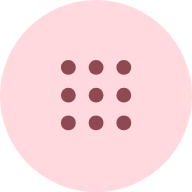
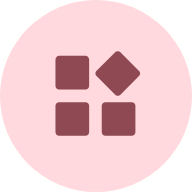
Portal: cuadrícula de íconos (opción B) sin bajar y nuevo ícono del portal (bloques de apps)
Claude-Session: https://claude.ai/code/session_01RxuB9udRxRvPuuMVijjDDS

Changed region(s): [[0.2812, 0.25, 0.75, 0.7188]]

diff --git a/index.html b/index.html
@@ -22,37 +22,29 @@ html,body{margin:0;background:var(--fondo);color:var(--txt);font:16px/1.45 "Goog
 body{min-height:100dvh}
 :focus-visible{outline:3px solid var(--vino);outline-offset:2px}
 .todo{max-width:1040px;margin:0 auto;padding:calc(20px + env(safe-area-inset-top)) 16px calc(32px + env(safe-area-inset-bottom))}
-.hrow{display:flex;justify-content:flex-end}
-.hrow img{width:56px;height:56px;display:block}
-h1{margin:20px 8px 6px;font-size:34px;line-height:42px;font-weight:700;letter-spacing:-.3px}
-.sub{margin:0 8px;font-size:15px;color:var(--sec)}
-.estado{margin:12px 8px 0;display:flex;align-items:center;justify-content:space-between;gap:8px}
-.estado .fecha{font-size:14px;color:var(--sec)}
-.hora{display:inline-flex;align-items:center;gap:6px;height:36px;padding:0 12px;border-radius:18px;background:var(--tarjeta);font-size:14px;font-weight:600;font-variant-numeric:tabular-nums;white-space:nowrap}
-.hora svg{width:18px;height:18px;color:var(--vino)}
-h2{margin:26px 8px 12px;font-size:15px;font-weight:600;color:var(--vino)}
-.grupo{display:flex;flex-direction:column;gap:3px}
-.app{display:flex;align-items:center;gap:16px;padding:14px 12px 14px 16px;background:var(--tarjeta);border-radius:6px;text-decoration:none;color:inherit;
+.cabeza{display:flex;align-items:center;justify-content:space-between;gap:12px}
+.cabeza img{width:52px;height:52px;display:block;flex:none}
+h1{margin:4px 8px 2px;font-size:28px;line-height:36px;font-weight:700;letter-spacing:-.3px}
+.sub{margin:0 8px;font-size:14px;color:var(--sec);font-variant-numeric:tabular-nums}
+/* Cuadrícula de íconos, como la pantalla de inicio del celular: todo cabe sin bajar */
+.grilla{margin-top:26px;display:grid;grid-template-columns:repeat(3,minmax(0,1fr));gap:22px 6px;background:var(--tarjeta);border-radius:28px;padding:24px 8px}
+.app{display:flex;flex-direction:column;align-items:center;gap:8px;text-align:center;text-decoration:none;color:inherit;border-radius:20px;padding:4px 2px;
   transition:transform 250ms var(--m3),background 200ms;animation:entra 450ms var(--m3in) both}
-.app:first-child{border-top-left-radius:28px;border-top-right-radius:28px}
-.app:last-child{border-bottom-left-radius:28px;border-bottom-right-radius:28px}
-.app:active{transform:scale(.98)}
-.app img{width:52px;height:52px;border-radius:50%;flex:none}
-.app .t{flex:1;min-width:0}
-.app b{display:block;font-size:17px;font-weight:500}
-.app span{display:block;font-size:13.5px;color:var(--sec);margin-top:2px}
-.app svg{width:24px;height:24px;color:var(--sec);flex:none}
-@keyframes entra{from{opacity:0;transform:translateY(10px)}to{opacity:1;transform:none}}
+.app:active{transform:scale(.94)}
+.app img{width:64px;height:64px;border-radius:50%}
+.app b{font-size:13.5px;line-height:1.25;font-weight:500}
+@keyframes entra{from{opacity:0;transform:translateY(10px) scale(.96)}to{opacity:1;transform:none}}
 .instalar{display:flex;align-items:center;justify-content:center;gap:8px;width:100%;max-width:360px;margin:28px auto 0;height:56px;border-radius:28px;border:0;
   background:var(--cont);color:var(--cont-txt);font:inherit;font-size:15.5px;font-weight:600;cursor:pointer;transition:transform 250ms var(--m3)}
 .instalar:active{transform:scale(.97)}
 .instalar[hidden]{display:none}
 .instalar svg{width:20px;height:20px}
 .nota{text-align:center;color:var(--sec);font-size:13px;margin-top:14px}
-@media (min-width:900px){
-  .todo{padding:32px 56px 40px}
-  .hrow{justify-content:flex-start}
-  .grupos{display:grid;grid-template-columns:repeat(2,minmax(0,1fr));gap:0 28px}
+@media (min-width:700px){
+  .todo{max-width:880px;padding:40px 32px}
+  .grilla{grid-template-columns:repeat(4,minmax(0,1fr));gap:28px 8px;padding:32px 16px}
+  .app img{width:76px;height:76px}
+  .app b{font-size:15px}
 }
 @media (hover:hover){.app:hover{background:var(--tarjeta2)}.instalar:hover{background:#FFC9CF}}
 @media (prefers-reduced-motion:reduce){*{transition:none!important;animation:none!important}}
@@ -60,11 +52,11 @@ h2{margin:26px 8px 12px;font-size:15px;font-weight:600;color:var(--vino)}
 </head>
 <body>
 <div class="todo">
-  <div class="hrow"><img src="logo-crc.png" alt="Clínica Reina Catalina"></div>
-  <h1>Apps de la clínica</h1>
-  <p class="sub">Clínica Reina Catalina · Gases medicinales</p>
-  <div class="estado"><span class="fecha" id="fecha"></span>
-    <span class="hora" aria-label="Hora de Colombia"><svg viewBox="0 0 24 24" fill="none" stroke="currentColor" stroke-width="2" stroke-linecap="round" stroke-linejoin="round" aria-hidden="true"><circle cx="12" cy="12" r="9"/><path d="M12 7v5l3 2"/></svg><span id="hora"></span></span></div>
+  <div class="cabeza">
+    <div><h1>Apps de la clínica</h1>
+      <p class="sub"><span id="fecha"></span> · <span id="hora"></span></p></div>
+    <img src="logo-crc.png" alt="Clínica Reina Catalina">
+  </div>
   <main id="contenido"></main>
 </div>
 
@@ -90,12 +82,10 @@ const GRUPOS = [
 ];
 const esc = s => String(s).replace(/[&<>"']/g, c => ({ '&': '&amp;', '<': '&lt;', '>': '&gt;', '"': '&quot;', "'": '&#39;' }[c]));
 
-const FLECHA = '<svg viewBox="0 0 24 24" fill="none" stroke="currentColor" stroke-width="2" stroke-linecap="round" stroke-linejoin="round" aria-hidden="true"><path d="m9 6 6 6-6 6"/></svg>';
 let k = 0;
 document.getElementById('contenido').innerHTML =
-  '<div class="grupos">' + GRUPOS.map(g => `<section><h2>${esc(g.titulo)}</h2><div class="grupo">` +
-    g.apps.map(a => `<a class="app" href="${esc(a.url)}" style="animation-delay:${(k++) * 45}ms"><img src="${esc(a.icono)}" alt="" width="52" height="52"><div class="t"><b>${esc(a.nombre)}</b><span>${esc(a.detalle)}</span></div>${FLECHA}</a>`).join('') +
-    '</div></section>').join('') + '</div>' +
+  '<nav class="grilla" aria-label="Apps">' + GRUPOS.map(g => g.apps.map(a =>
+    `<a class="app" href="${esc(a.url)}" title="${esc(a.detalle)}" style="animation-delay:${(k++) * 40}ms"><img src="${esc(a.icono)}" alt="" width="64" height="64"><b>${esc(a.nombre)}</b></a>`).join('')).join('') + '</nav>' +
   `<button class="instalar" id="bInstalar" hidden><svg viewBox="0 0 24 24" fill="none" stroke="currentColor" stroke-width="2" stroke-linecap="round" stroke-linejoin="round" aria-hidden="true"><rect x="6" y="2" width="12" height="20" rx="2.5"/><path d="M12 7v7m-3-3 3 3 3-3"/></svg>Instalar el portal</button>
    <p class="nota">Cada app pide su propio código de acceso.</p>`;
 

diff --git a/sw.js b/sw.js
@@ -2,7 +2,7 @@
    también las demás apps. Por eso solo atiende los archivos del portal y nunca
    toca las peticiones ni las cachés de las otras apps.
    Al publicar cambios, sube el número de VERSION. */
-const VERSION = 'portal-v3';
+const VERSION = 'portal-v4';
 const ARCHIVOS = ['/', '/index.html', '/manifest.json', '/logo.jpg', '/logo-crc.png', '/PlusJakartaSans.ttf', '/icon-192.png', '/icon-512.png',
   '/iconos/cilindros.png', '/iconos/ronda.png', '/iconos/inv-cilindros.png', '/iconos/inv-gases.png', '/iconos/tanques.png', '/iconos/alarmas.png', '/iconos/verificar.png'];
 const DEL_PORTAL = new Set(ARCHIVOS);
